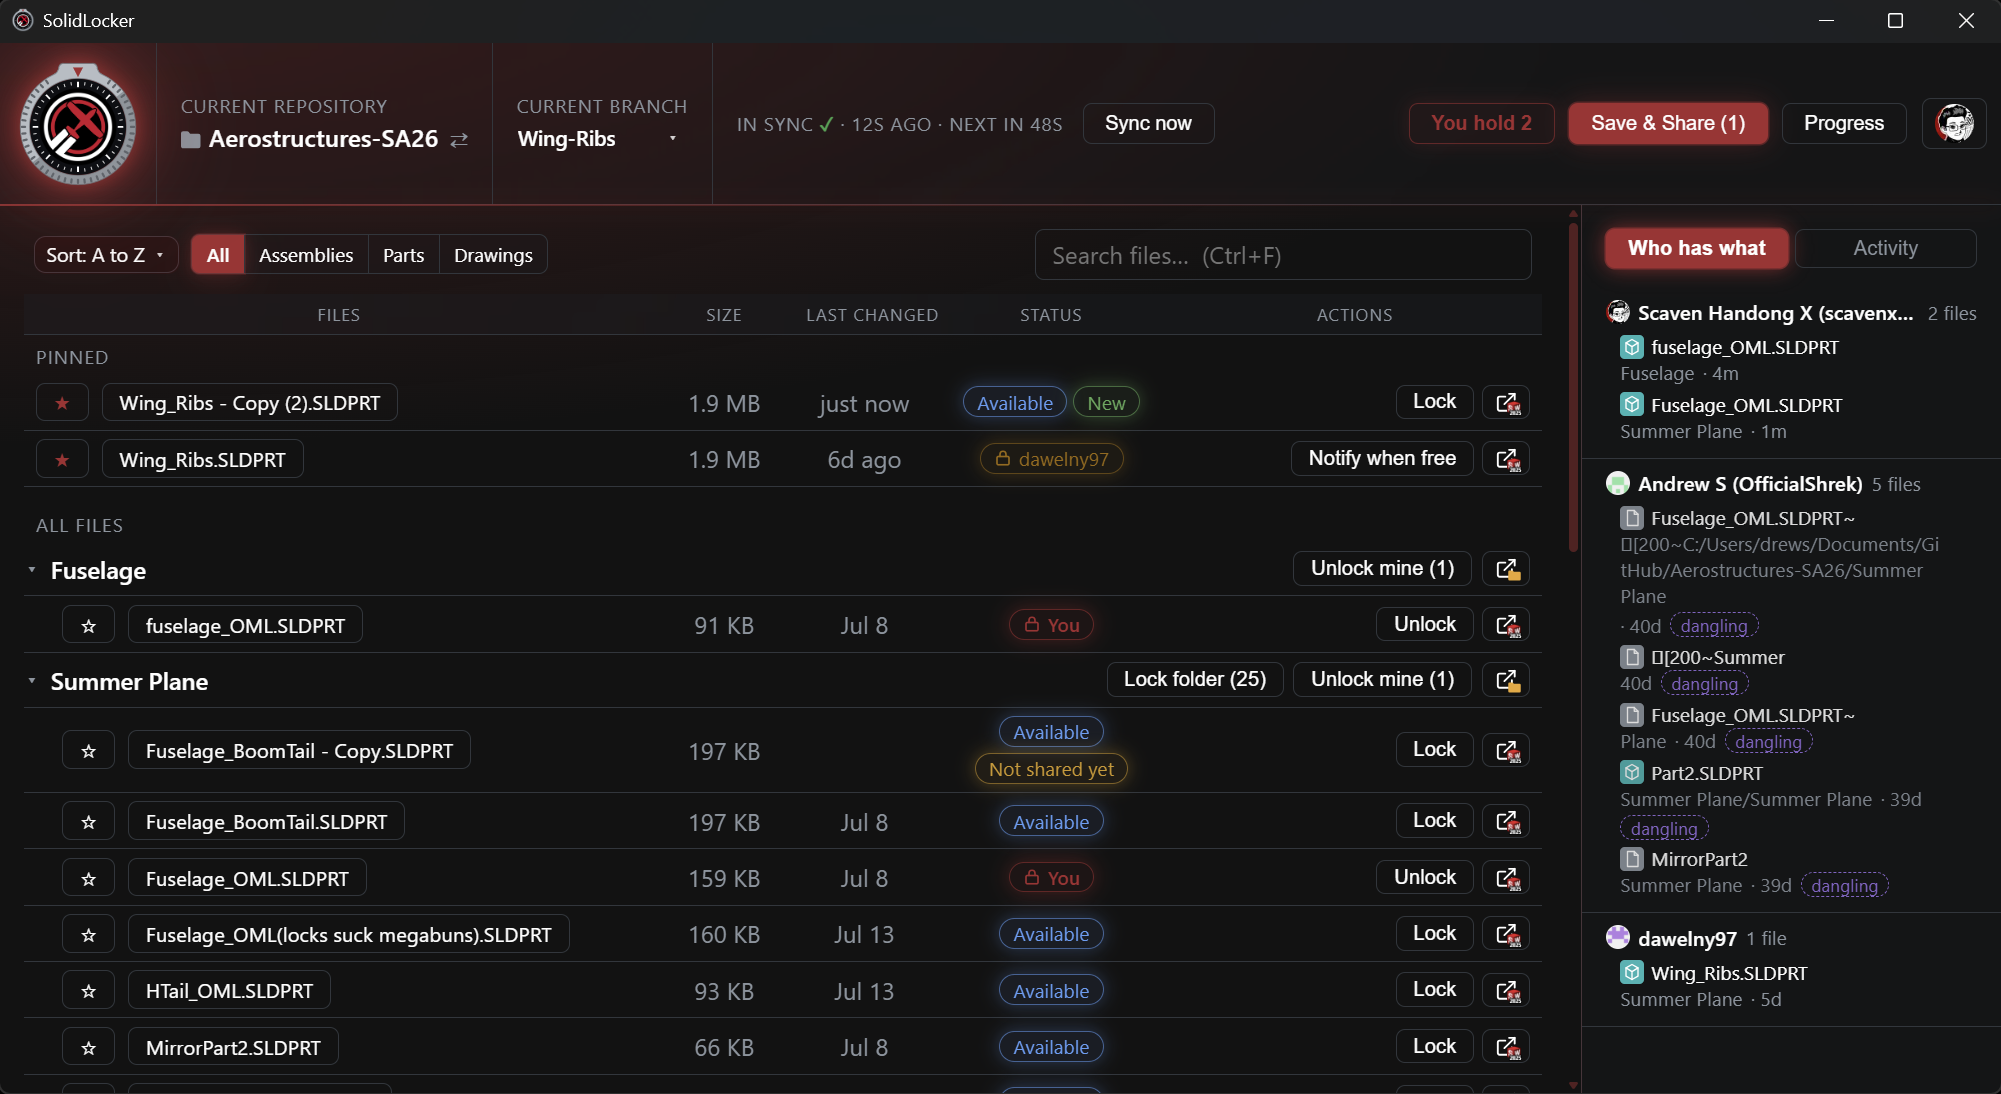
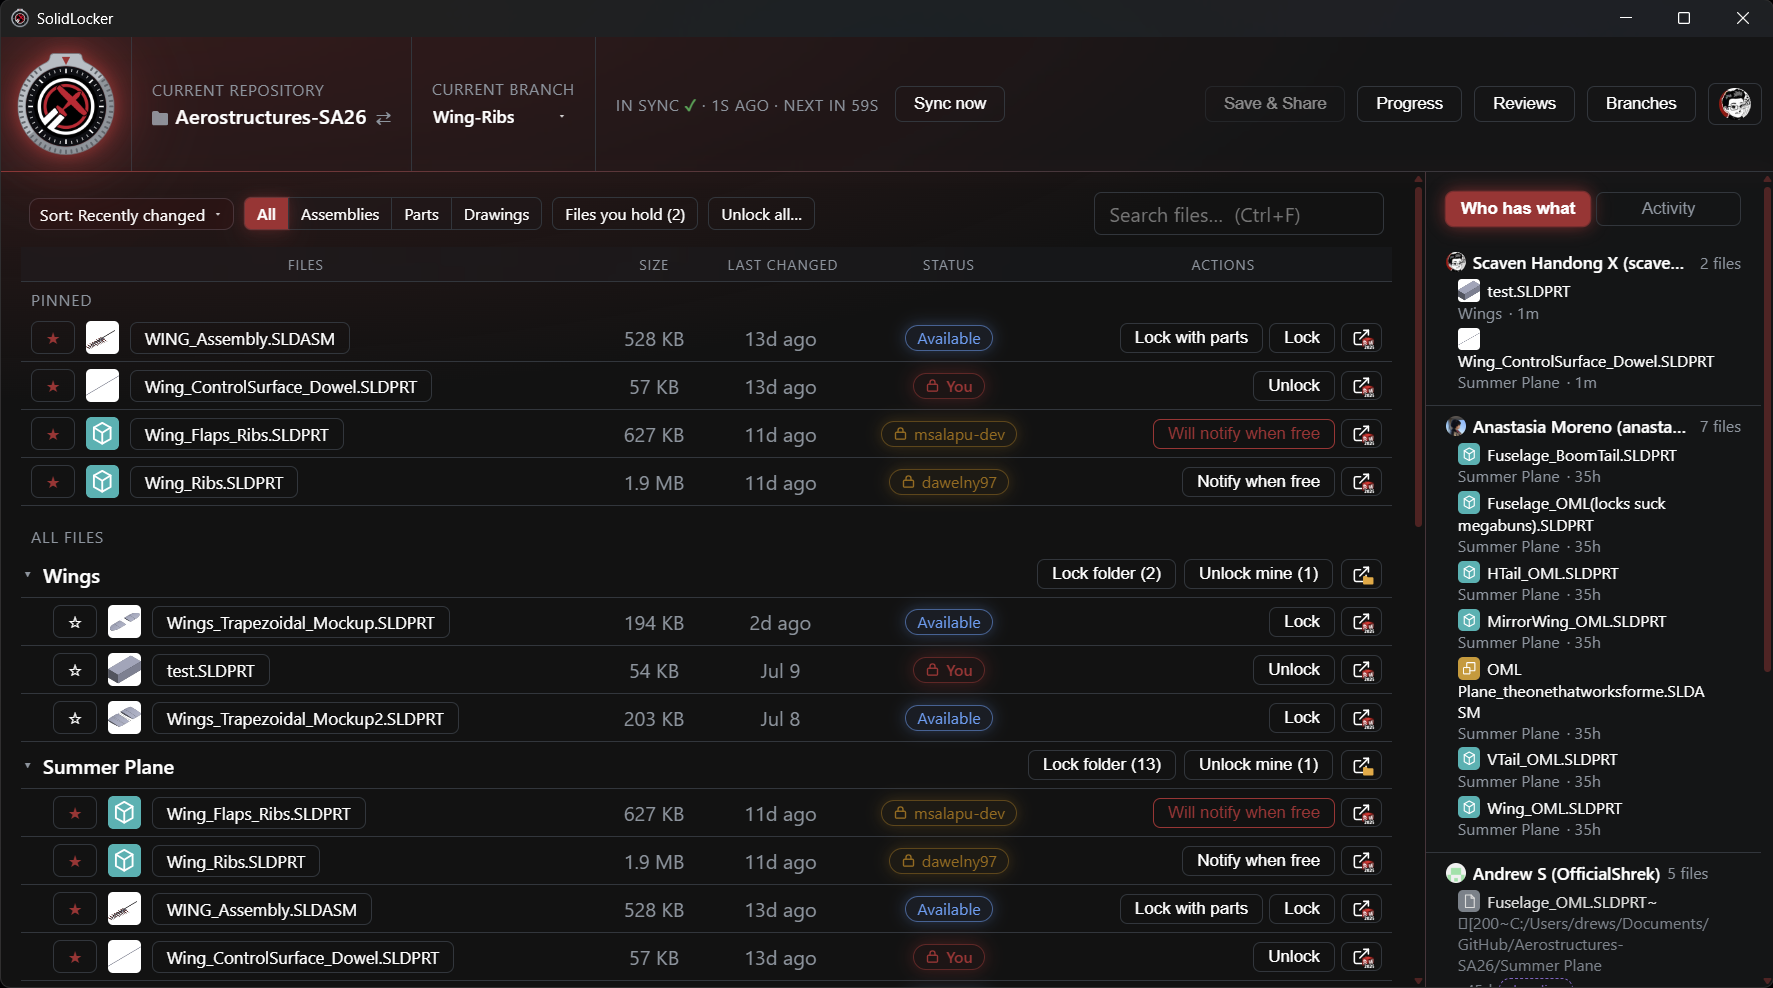
Update README

diff --git a/README.md b/README.md
@@ -3,89 +3,152 @@
 </p>
 
 # SolidLocker
-SolidLocker keeps your team's SolidWorks files from stepping on each other. It
-locks each part to one person at a time, and it's as easy as a single click, so
-you never have to learn Git to use it. Lock an assembly or a drawing and every
-part inside it gets locked too, all in that same click.
+**Version control for SolidWorks teams**
 
-Built on Git and Git LFS, so your files and their full history live in your
-team's GitHub repo. Nothing new to log into, no server to run.
+Keep every part, assembly, and drawing in your team's GitHub repo with its full history, without making everyone on the team learn Git.
+
+SolidLocker gives common Git workflows simple names and buttons. You can **Save & Share** your work, branch off to try a new design, restore an older version, or ask a teammate to review your changes before they are added back to the main branch.
+
+It also solves one of the biggest problems with using Git for CAD: **SolidWorks files cannot be merged.** SolidLocker uses Git LFS file locking so only one person can edit a file at a time. Lock an assembly or drawing and its referenced files are locked with it, preventing two people from accidentally working on the same files and overwriting each other's work.
+
+SolidLocker works with the GitHub repo and accounts your team already uses. There is no separate server to run, no new account to create, and no PDM system to maintain.
 
 Developed by [Scaven X](https://github.com/scavenx) at RU Airborne.
 
-<p align="center">
-  <img src="docs/images/dashboard.png" alt="SolidLocker dashboard" width="610">
-  <br>
-  <em>The dashboard: every file's lock status at a glance, with who holds what on the right.</em>
-</p>
+![SolidLocker dashboard](docs/images/dashboard.png)  
+*The dashboard shows the lock status of every file and who currently has it locked.*
 
 ## The problem it solves
 
-You can't merge two SolidWorks files. If two people open the same part and both
-save, one save wins and the other person's work is just gone. The usual fix is
-calling dibs in the group chat, which falls apart the second two messages cross.
+Git is great for software because code can usually be compared and merged when
+two people change the same file. SolidWorks files do not work that way. If two
+people edit the same part separately, Git cannot combine their changes
+afterward. One version has to replace the other.
 
-SolidLocker replaces coordination by chat with an actual file locking system. When you lock a file, that
-lock gets recorded on GitHub's servers right away, and the server only ever lets
-one person hold a file at a time, so two people grabbing the same part is
-impossible by design. Until you lock a file it stays read only on your computer,
-so you can't accidentally edit something that isn't yours.
+SolidLocker fills that gap with file locking. Files stay read-only until you
+lock them, and the lock is recorded on GitHub right away. If someone else
+already has the file locked, you cannot accidentally start editing it too.
 
-There's no server to run and no separate account to make. SolidLocker
-just uses your team's existing GitHub repo and your own GitHub sign in.
+GitHub and GitHub Desktop do not help much here either. Their pull request and
+merge screens are built around showing a text diff, and a SolidWorks file has
+nothing to diff, so neither the website nor GitHub Desktop can resolve a
+conflict in a SolidWorks file. They just tell you to sort it out with Git in a
+terminal. SolidLocker gives that an intuitive interface instead: a railway map
+of the branches, a side-by-side sort box that shows both versions of a
+clashing file with a picture, author and date so you pick the one to keep, and
+reviews inside the app where a teammate can accept your picks or choose
+differently before the work joins the main branch. Branching off and restoring
+an earlier version are buttons too.
 
 ## Feature Highlights
 
+- **Everyday words, not Git words**: Nobody on the team needs to know Git. You "Save & Share"
+  instead of commit and push, "Combine" instead of merge, "Ask for a review" instead of opening a
+  pull request. Every term is listed against its Git meaning in
+  [What the words mean](#what-the-words-mean).
+
 - **Safe by default**: Files stay read only until you lock them, so nothing unlocked gets changed by
-    accident. Every lock is an atomic lock on GitHub's server, so two people can never hold
-    the same file at once. Unlock won't let go until your newest version is pushed.
+  accident. Every lock is an atomic lock on GitHub's server, so two people can never hold
+  the same file at once. Unlock won't let go until your newest version is pushed.
 
 - **Lock with parts**: Lock a drawing or an assembly and SolidLocker locks every part it depends on
-    in the same click, so you grab the whole set at once. It figures out those parts by asking your running copy of SolidWorks directly,
-    so the list matches what the file actually uses. You can also lock a whole folder at once from the file tree.
+  in the same click, so you grab the whole set at once. It figures out those parts by asking your
+  running copy of SolidWorks directly, so the list matches what the file actually uses. You can
+  also lock a whole folder at once from the file tree.
 
   <p align="center">
   <img src="docs/images/lock_with_parts.png" alt="Lock with parts dialog" width="600">
   <br>
-  <em>Lock with parts: SolidLocker reads a drawing or assembly's references straight from your running SolidWorks and locks the whole set in one click.</em>
-</p>
+  <em>Lock with parts: the references come straight from your running SolidWorks, and the whole set locks in one click.</em>
+  </p>
 
-- **Stays in sync with the team**: SolidLocker checks GitHub every 60 seconds and quietly pulls in new team changes. You can also manually sync at any time. Desktop notifications when the connection drops or comes back.
+- **Branches page**: A railway map of every branch in the project, coloured so each branch is easy to
+  tell apart, with "You are here" on your current commit. Open any commit to see what changed, view
+  a file as it was back then, restore that version, or branch off from that point. Restoring,
+  branching off and combining all happen right there in the app.
+
+  <p align="center">
+  <img src="docs/images/branches.png" alt="Branches page with a railway diagram" width="600">
+  <br>
+  <em>The Branches page: every branch on one railway, with branch off, restore and combine a click away</em>
+  </p>
+
+- **Get an old version back, safely**: Pick any commit on the railway and you have two ways to
+  return to it. Restore puts that version of the files back in your working folder as a new save,
+  so nothing later is thrown away and the history stays intact. Branch off starts a new branch from
+  that point instead, so you can explore an earlier state without touching the branch you came
+  from. Either way, the version you are on now is never lost.
+
+  <table align="center">
+    <tr>
+      <td align="center"><img src="docs/images/restore.png" alt="Restore this version dialog" width="420"><br><em>Restore: bring an earlier version back.</em></td>
+      <td align="center"><img src="docs/images/branch_off.png" alt="Branch off from here dialog" width="420"><br><em>Branch off: start a new branch from an eariler point.</em></td>
+    </tr>
+  </table>
+
+- **Combine branches**: Bring one branch into another from the Branches page. SolidLocker shows what
+  would change first, with thumbnails, and tells you if the two branches touched the same CAD file.
+  If they did, a sort box lists each clash with both versions side by side so you pick which one to
+  keep. A compact railway above it shows just the two branches back to where they parted.
+
+  <p align="center">
+  <img src="docs/images/merge_request.png" alt="Combine branches dialog" width="600">
+  <br>
+  <em>Combine: see what the other branch brings before anything changes.</em>
+  </p>
+
+- **Reviews, inside the app**: On GitHub or GitHub Desktop a SolidWorks clash is a binary diff with
+  nothing to read and no way to choose a side, so reviewing CAD there is a dead end. SolidLocker
+  does the whole review itself: ask the team for one straight from the Combine dialog, with a
+  title, a note and, if files clash, your suggested picks. Reviewers see the changed files with
+  thumbnails, the conversation so far, and the same sort box. They can accept your picks with one
+  click or pick differently, ask for changes, or approve and combine in one go. Closed reviews stay
+  listed with what was kept, and offer to tidy the branch away once it is in.
+
+  <p align="center">
+  <img src="docs/images/reviews.png" alt="Reviews page" width="600">
+  <br>
+  <em>Reviews: open and closed reviews are shown directly in the app.</em>
+  </p>
+
+  <p align="center">
+  <img src="docs/images/conflict_resolution.png" alt="Sort box with two versions of a file side by side" width="600">
+  <br>
+  <em>The sort box: both versions of a clashing file, with a picture, author and date, so you choose the one to keep.</em>
+  </p>
 
 - **See who has what**: A "Who has what" panel lists every locked file and who holds it, with a jump
   to file button. Locks that live on another branch, or that point at a file no longer present,
-  are flagged so nothing looks missing. An activity feed shows recent history. Waiting on a file someone else holds? Tap "Notify when free" and SolidLocker
-  pings you the moment it is unlocked.
+  are flagged so nothing looks missing. An activity feed shows recent history. Waiting on a file
+  someone else holds? Tap "Notify when free" and SolidLocker pings you the moment it is unlocked.
 
+- **Keep track of progress**: A Progress page shows what the team has been up to across every
+  branch: what changed this week, a chart of shared changes per day, which parts are being reworked
+  the most, and who made the most changes recently. A branch timeline puts every branch and change
+  on one railway, and you can branch off, restore or combine straight from it.
 
-- **Keep track of progress**: A Progress page shows what the team has been up to across every branch: what changed this week, a chart of shared changes
-  per day, which parts are being reworked the most, and who made the most changes recently.
   <p align="center">
-  <img src="docs/images/progress.png" alt="SolidLocker progress page" width="600">
+  <img src="docs/images/progress.png" alt="Progress page" width="600">
   <br>
   <em>The Progress page: what the team has worked on across every branch.</em>
   </p>
 
-- **Branch switching**: Switch branches right from the toolbar. Untracked files never block a switch
-  or a pull. If a switch would trample local files you haven't committed, SolidLocker
-  offers to set them aside instead of discarding them. The file list is held
-  while the swap runs, so nothing can be locked into a half-changed project,
-  and anything SolidWorks writes mid-switch is reported rather than reverted.
+  <p align="center">
+  <img src="docs/images/progress_railway.png" alt="Branch timeline railway on the Progress page" width="600">
+  <br>
+  <em>The branch timeline: every branch and change on one railway.</em>
+  </p>
 
-- **Find your files fast**: Pin the files you work on most to a Pinned section at the top of the list. Search by name (Ctrl+F), filter to Assemblies, Parts, or Drawings, and sort
-  the list however you like.
+- **Branch switching**: Switch branches right from the toolbar. Untracked files never block a switch
+  or a pull. If a switch would trample local files you haven't committed, SolidLocker offers to set
+  them aside instead of discarding them.
 
 - **Works offline**: Lost your connection? You can still edit any file you locked before you went
-  offline. SolidLocker shows the last known locks and pauses locking and sharing
-  until you are back, then picks up on its own.
+  offline. SolidLocker shows the last known locks and pauses locking and sharing until you are
+  back, then picks up on its own.
 
-- **Runs in the background**: Closing the window keeps SolidLocker in the system tray, so it still protects
-  your files and can tell you when a file you are waiting on comes free.
-
-- **Handles conflicts safely**: If pulling team changes would clash with a file you have open, SolidLocker
-  stops and warns you instead of overwriting, since CAD files cannot be merged.
-
-
+- **Runs in the background**: Closing the window keeps SolidLocker in the system tray, so it still
+  protects your files and can tell you when a file you are waiting on comes free.
 
 ## Getting started
 
@@ -103,6 +166,22 @@ just uses your team's existing GitHub repo and your own GitHub sign in.
    and run it.
 2. Open SolidLocker and point it at your team's project folder (a local clone of
    the GitHub repository).
+
+### Windows SmartScreen
+
+  <p align="center">
+  <img src="docs/images/smartscreen.png" alt="Branch timeline railway on the Progress page" width="300">
+  <br>
+  <em>Windows SmartScreen would block installation due to unrecognized publisher</em>
+  </p>
+
+When you run the installer, Windows may show a blue "Windows protected your PC" box. That is
+SmartScreen, and it appears because the installer is not signed with a paid code signing
+certificate, not because anything is wrong with it. Click **More info**, then **Run anyway**.
+
+If you would rather not take our word for it, everything is here in the open: clone the
+repository and read the source yourself (or have an AI read it for you), then build the
+installer or run it in dev mode on your own machine. See [Building from source](#building-from-source).
 
 ### First run
 
@@ -128,6 +207,36 @@ password itself and stores no credentials of its own.
    safely on GitHub first, then frees the file for the next person.
 
 
+## What the words mean
+
+SolidLocker uses everyday words in the app. If you know Git, this is what they map to.
+
+| In SolidLocker | In Git / Git LFS |
+| --- | --- |
+| Lock / Release | `git lfs lock` / `git lfs unlock` on the file. Files stay read-only until locked. |
+| Lock with parts | One `git lfs lock` per referenced part, found by asking SolidWorks for the file's references. |
+| Force unlock | `git lfs unlock --force` |
+| Save & Share | `git add`, `git commit`, `git push` (LFS objects upload with the push). |
+| Sync now / "pulling in team changes" | `git fetch` then a fast-forward `git pull`, every 60 seconds or on demand. |
+| Who has what | `git lfs locks`, matched against branches and files. |
+| Discard | `git restore` on the file (unlocked files are never touched). |
+| Set aside | Untracked files are moved to a `<project>-SetAside` folder next to the project before a switch. Not a `git stash`. |
+| Switch branch | `git switch`, after checking nothing locked would be trampled. |
+| Branch off from here | `git switch -c <name> <commit>` |
+| View this version (read-only) | A temporary detached checkout of that commit; one click returns you. |
+| Restore this version | `git restore --source <commit> -- <file>`, then Save & Share when you are happy. |
+| Branches page | `git log --all --graph`, drawn as a railway. |
+| Progress page | `git log` with per-file and per-author statistics across all branches. |
+| Combine / Merge into here | `git merge` of the other branch into the one you are on. |
+| "Same file, two versions" / the sort box | A merge conflict on a binary file, resolved by keeping `--ours` or `--theirs` for each file. |
+| Undo (after a combine) | `git reset --hard ORIG_HEAD`, only while nothing has been shared yet. |
+| Ask for a review / Review | A pull request on GitHub. |
+| Picks / proposals | Per-file review comments on the pull request, marked so the app can read them back. |
+| Ask for changes | A "changes requested" review on the pull request. |
+| Approve and combine | An approving review followed by merging the pull request. |
+| Tidy up / Delete branch | `git push origin --delete <branch>` and `git branch -D <branch>`, only once the branch is fully merged. |
+| Fix permissions | Re-applies `lfs.setlockablereadonly`: locked files writable, everything else read-only. |
+
 ## Good to know
 
 - **Locks aren't tied to a branch**: A file you lock is locked everywhere.
@@ -139,6 +248,9 @@ password itself and stores no credentials of its own.
 - **SolidWorks scratch files are ignored**: The temp files SolidWorks makes while
   a doc is open (their names start with `~$`) get filtered out, so the app won't
   nag you to Save & Share when you haven't really changed anything.
+- **GitHub decides who may approve**: The app never lets you approve your own review, because
+  GitHub won't. If the repo has a branch rule requiring reviews, "Merge into here" is switched off
+  and the reviewed route is the only way in.
 
 
 ## Troubleshooting
@@ -150,6 +262,13 @@ password itself and stores no credentials of its own.
 - **Q: It looks offline even though I have internet.**  
 
   **A:** The local lock cache may have been corrupted by an interrupted operation. SolidLocker detects this and repairs the cache automatically, so wait a moment and try again.
+
+
+- **Q: I pressed "Ask for changes" on my own review and it came through as a comment.**  
+
+  **A:** GitHub does not accept a verdict from the person who opened the request, so the app
+  posts your words and picks as a comment instead and tells you. A teammate's "Ask for changes"
+  is a real block.
 
 - **Q: A file shows a lock that nobody remembers making.**  
 
